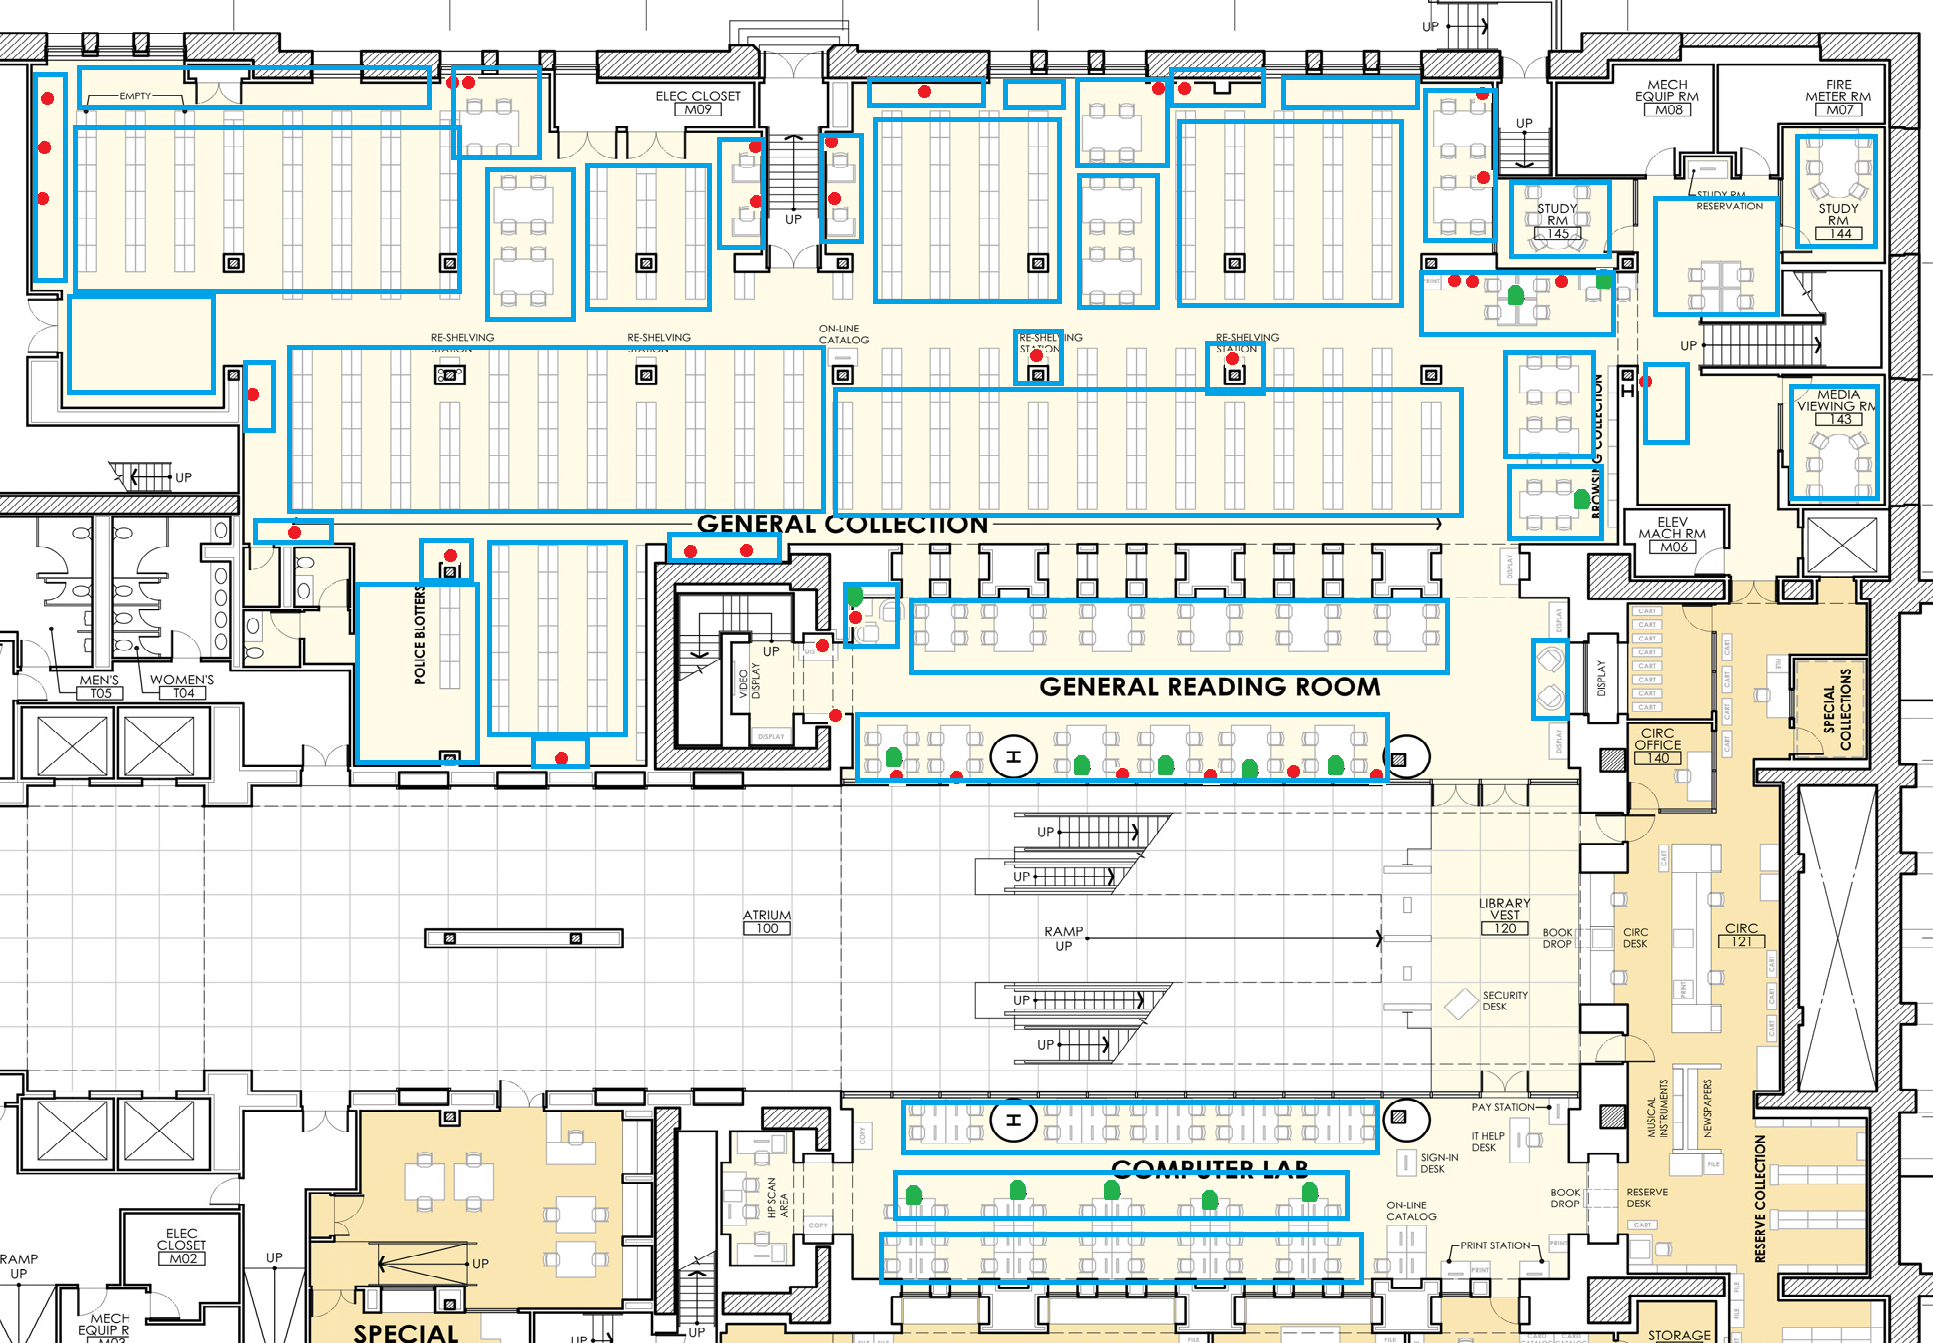
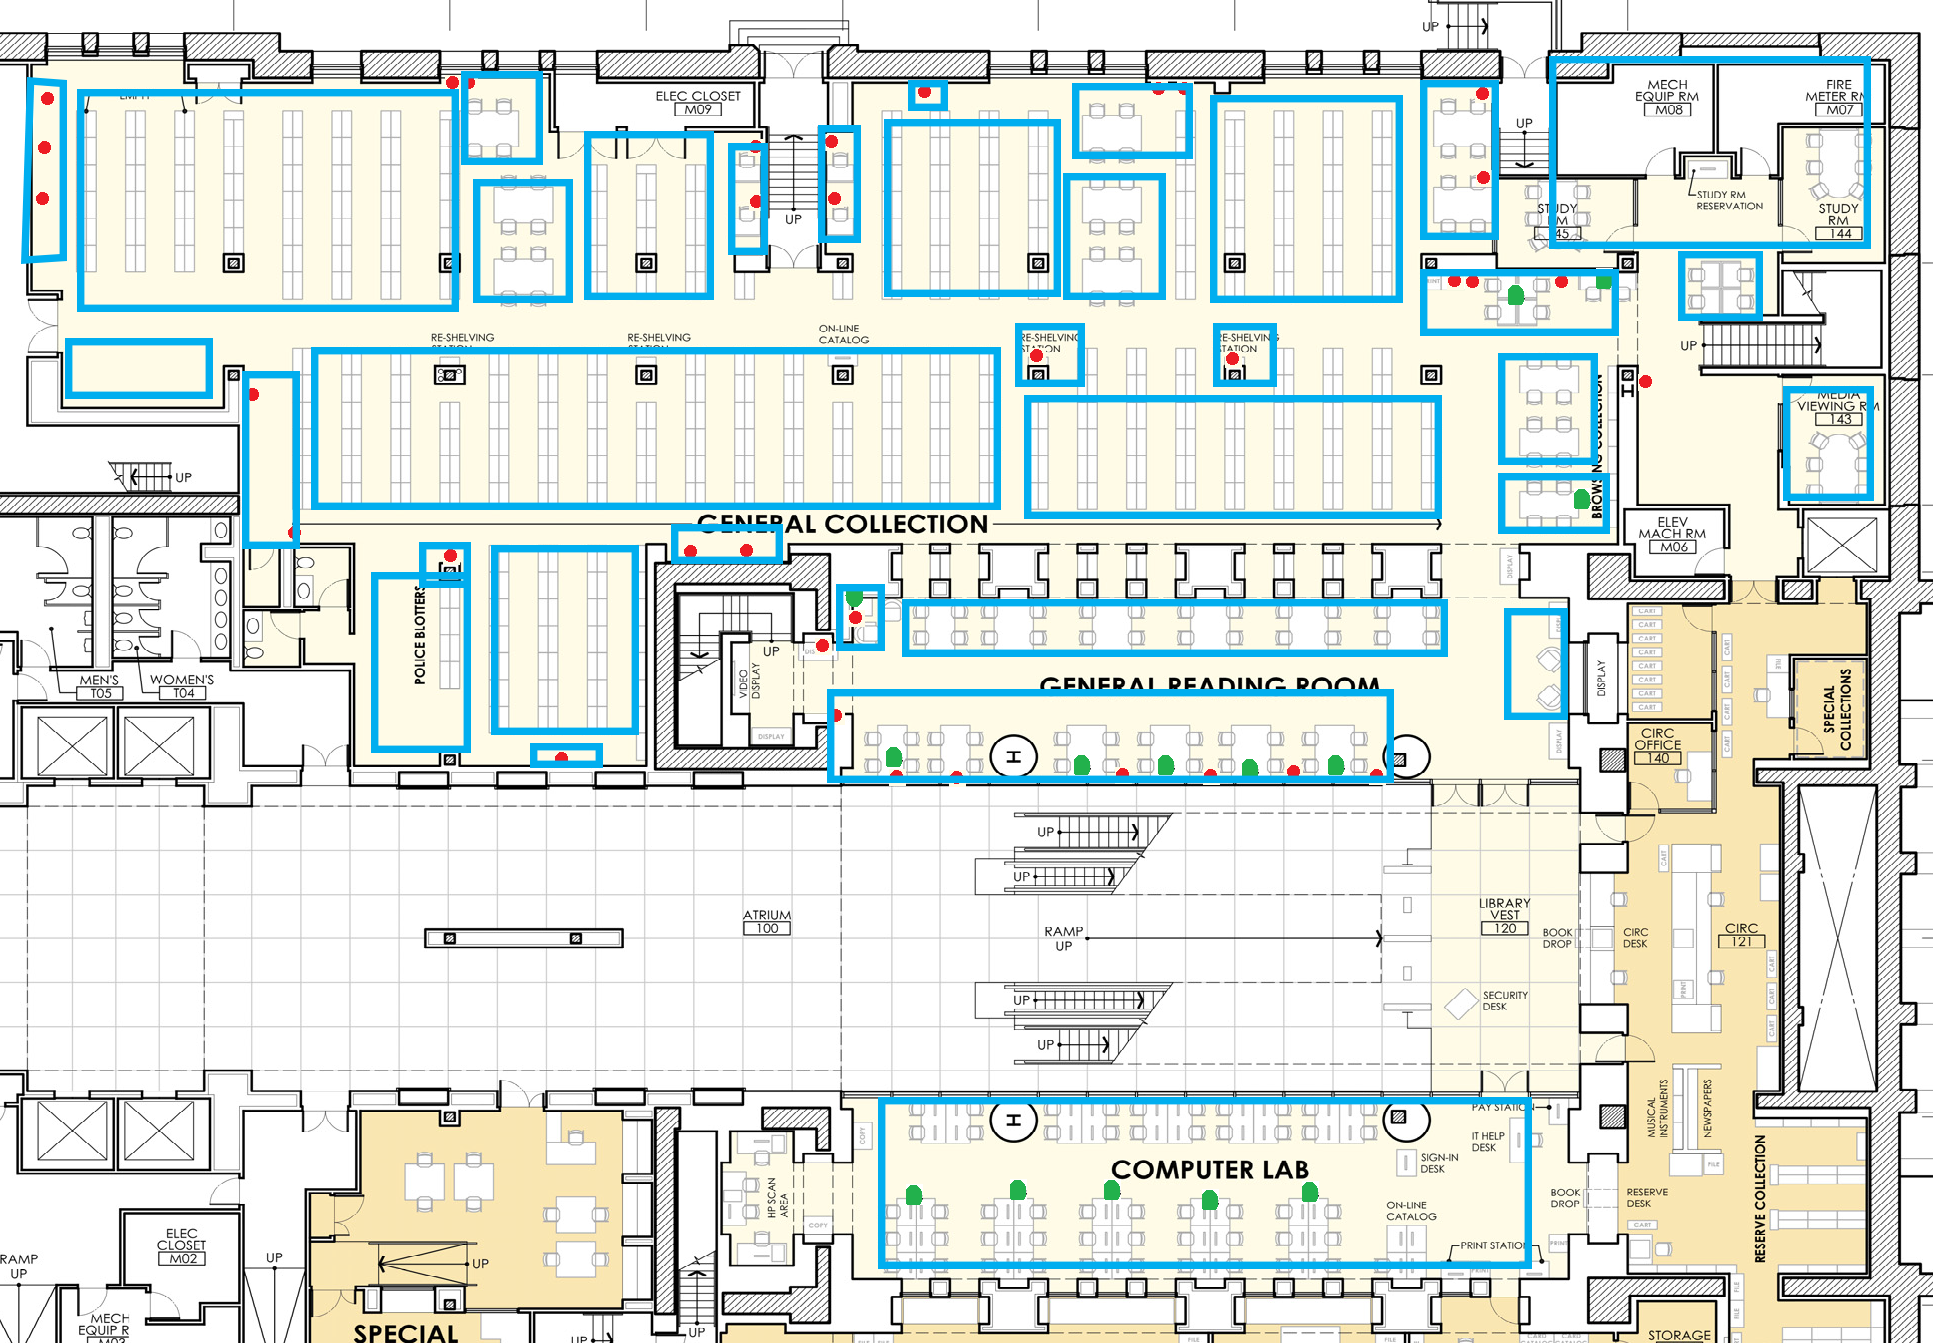
Updated image for lower floor and used the new boxes.

diff --git a/map.html b/map.html
@@ -8,19 +8,41 @@
 <img src="static/{{.Floor}}.png" usemap="#floor{{.Floor}}">
 <map name="floor{{.Floor}}">
 {{if eq .Floor "1"}}
-	<area target="" alt="" title="" href="/?area=L1" coords="78,131,456,293" shape="rect">
-	<area target="" alt="" title="" href="/?area=L2" coords="589,167,708,306" shape="rect">
-	<area target="" alt="" title="" href="/?area=L3" coords="879,122,1058,301" shape="rect">
-	<area target="" alt="" title="" href="/?area=L4" coords="1181,124,1400,306" shape="rect">
-	<area target="" alt="" title="" href="/?area=L5" coords="290,349,822,509" shape="rect">
-	<area target="" alt="" title="" href="/?area=L6" coords="836,390,1463,515" shape="rect">
-	<area target="" alt="" title="" href="/?area=L7" coords="361,586,475,760" shape="rect">
-	<area target="" alt="" title="" href="/?area=L8" coords="491,543,624,731" shape="rect">
-	<area target="" alt="" title="" href="/?area=L9" coords="915,602,1447,672" shape="rect">
-	<area target="" alt="" title="" href="/?area=L10" coords="858,714,1390,777" shape="rect">
-	<area target="" alt="" title="" href="/?area=L11" coords="904,1100,1376,1148" shape="rect">
-	<area target="" alt="" title="" href="/?area=L12" coords="885,1236,1362,1277" shape="rect">
-	<area target="" alt="" title="" href="/?area=L13" coords="1656,201,1778,312" shape="rect">
+	<area target="" alt="" title="" href="/?area=L1" coords="450,312,81,95" shape="rect">
+	<area target="" alt="" title="" href="/?area=L2" coords="315,349,993,504" shape="rect">
+	<area target="" alt="" title="" href="/?area=L3" coords="1213,101,1398,294" shape="rect">
+	<area target="" alt="" title="" href="/?area=L4" coords="1550,57,1867,247" shape="rect">
+	<area target="" alt="" title="" href="/?area=L5" coords="882,1098,1525,1261" shape="rect">
+	<area target="" alt="" title="" href="/?area=L6" coords="1029,400,1433,512" shape="rect">
+	<area target="" alt="" title="" href="/?area=L7" coords="885,125,1053,291" shape="rect">
+	<area target="" alt="" title="" href="/?area=L8" coords="828,692,1390,782" shape="rect">
+	<area target="" alt="" title="" href="/?area=L9" coords="494,549,632,728" shape="rect">
+	<area target="" alt="" title="" href="/?area=L10" coords="589,134,705,294" shape="rect">
+	<area target="" alt="" title="" href="/?area=L11" coords="904,597,1444,657" shape="rect">
+	<area target="" alt="" title="" href="/?area=L12" coords="369,580,464,745" shape="rect">
+	<area target="" alt="" title="" href="/?area=L13" coords="477,186,567,297" shape="rect">
+	<area target="" alt="" title="" href="/?area=L14" coords="1067,177,1164,294" shape="rect">
+	<area target="" alt="" title="" href="/?area=L15" coords="1422,82,1496,231" shape="rect">
+	<area target="" alt="" title="" href="/?area=L16" coords="1501,358,1593,456" shape="rect">
+	<area target="" alt="" title="" href="/?area=L17" coords="1422,268,1612,331" shape="rect">
+	<area target="" alt="" title="" href="/?area=L18" coords="1786,389,1873,500" shape="rect">
+	<area target="" alt="" title="" href="/?area=L19" coords="1075,85,1189,156" shape="rect">
+	<area target="" alt="" title="" href="/?area=L20" coords="67,344,206,393" shape="rect">
+	<area target="" alt="" title="" href="/?area=L21" coords="244,375,298,540" shape="rect">
+	<area target="" alt="" title="" href="/?area=L22" coords="464,75,540,159" shape="rect">
+	<area target="" alt="" title="" href="/?area=L23" coords="27,83,62,257" shape="rect">
+	<area target="" alt="" title="" href="/?area=L24" coords="1498,474,1607,531" shape="rect">
+	<area target="" alt="" title="" href="/?area=L25" coords="1683,253,1762,318" shape="rect">
+	<area target="" alt="" title="" href="/?area=L26" coords="1506,612,1563,710" shape="rect">
+	<area target="" alt="" title="" href="/?area=L27" coords="820,129,860,235" shape="rect">
+	<area target="" alt="" title="" href="/?area=L28" coords="727,148,768,248" shape="rect">
+	<area target="" alt="" title="" href="/?area=L29" coords="1018,327,1080,379" shape="rect">
+	<area target="" alt="" title="" href="/?area=L30" coords="1216,328,1273,382" shape="rect">
+	<area target="" alt="" title="" href="/?area=L31" coords="673,524,779,565" shape="rect">
+	<area target="" alt="" title="" href="/?area=L32" coords="836,586,882,646" shape="rect">
+	<area target="" alt="" title="" href="/?area=L33" coords="912,82,942,109" shape="rect">
+	<area target="" alt="" title="" href="/?area=L34" coords="426,542,464,569" shape="rect">
+	<area target="" alt="" title="" href="/?area=L35" coords="534,740,594,767" shape="rect">
 {{else if eq .Floor "2"}}
 	<area target="" alt="" title="" href="/?area=U1" coords="1094,120,1809,300" shape="rect">
 	<area target="" alt="" title="" href="/?area=U2" coords="1923,133,2205,297" shape="rect">
